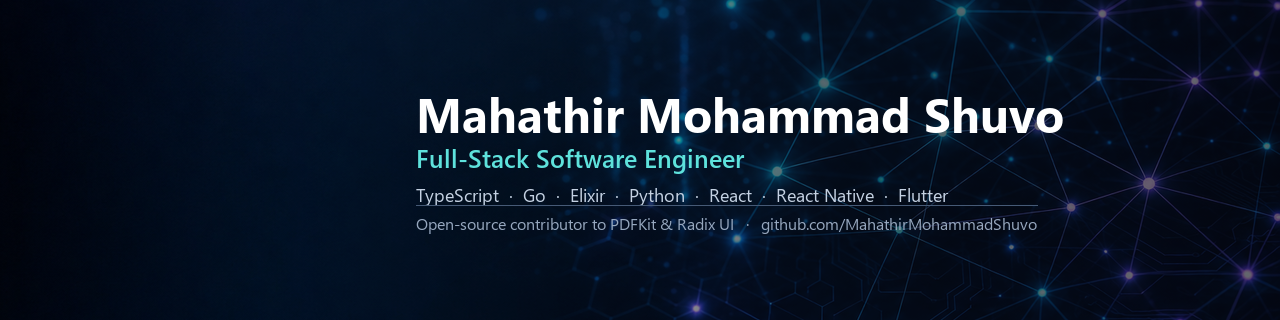
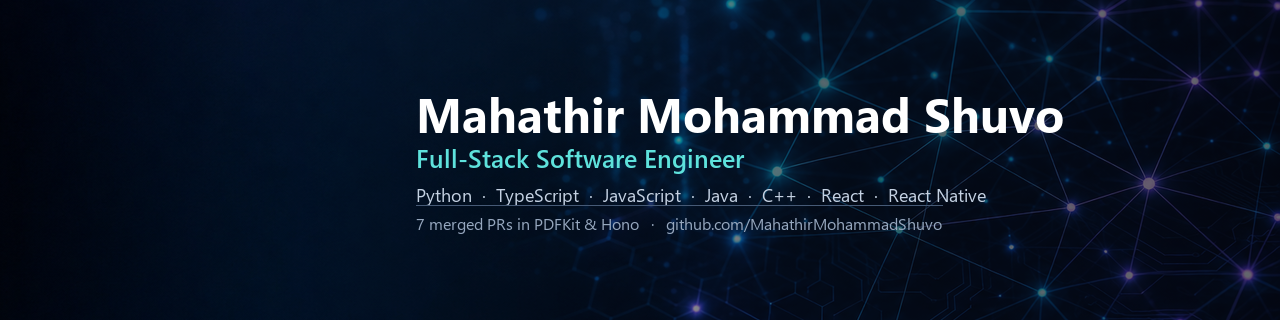
Add the hono and pdfkit merges, and correct the language list
Seven merged pull requests across two repos now. The stack, the banner and
the CV listed languages I do not work in; all three now match my resume.

Changed region(s): [[0.3125, 0.5938, 0.7812, 0.6562], [0.3125, 0.6875, 0.8125, 0.7188]]

diff --git a/README.md b/README.md
@@ -3,8 +3,8 @@
 ## Mahathir Mohammad
 
 Full-stack engineer in Bangladesh. Backend and full-stack work since 2020, across
-web, mobile and desktop — TypeScript and NestJS, Go, Elixir/Phoenix, Python, React,
-React Native and Flutter, on AWS and GCP.
+web, mobile and desktop — TypeScript and NestJS, Python and Flask, JavaScript,
+Java and C++, React, React Native and Electron, on AWS and GCP.
 
 **[Download my CV (PDF)](Mahathir_Mohammad_Shuvo_CV.pdf)**
 
@@ -13,22 +13,24 @@ React Native and Flutter, on AWS and GCP.
 ### Open source
 
 <!-- OSS:START -->
-**4 merged** contributions across 1 project.
+**7 merged** contributions across 2 projects.
 
 | Project | Stars | Contribution | Status |
 | --- | --- | --- | --- |
+| [honojs/hono](https://github.com/honojs/hono) | 31.8k | [fix(client): skip an undefined entry inside a query array](https://github.com/honojs/hono/pull/5272) | **Merged** |
+| [foliojs/pdfkit](https://github.com/foliojs/pdfkit) | 10.7k | [Throw from addNamedEmbeddedFile when no ref is given](https://github.com/foliojs/pdfkit/pull/1772) | **Merged** |
+| [foliojs/pdfkit](https://github.com/foliojs/pdfkit) | 10.7k | [Fix a hole in a sparse array being skipped when serialising](https://github.com/foliojs/pdfkit/pull/1771) | **Merged** |
 | [foliojs/pdfkit](https://github.com/foliojs/pdfkit) | 10.7k | [Fix table cell font src inheriting an unrelated font family](https://github.com/foliojs/pdfkit/pull/1770) | **Merged** |
-| [foliojs/pdfkit](https://github.com/foliojs/pdfkit) | 10.7k | [Fix undefined option values serialising as the literal token undefined](https://github.com/foliojs/pdfkit/pull/1769) | **Merged** |
-| [foliojs/pdfkit](https://github.com/foliojs/pdfkit) | 10.7k | [Fix date text field formatting emitting invalid JavaScript](https://github.com/foliojs/pdfkit/pull/1768) | **Merged** |
 | [radix-ui/primitives](https://github.com/radix-ui/primitives) | 19.2k | [fix(dismissable-layer): dismiss on one outside click after content stops propagation](https://github.com/radix-ui/primitives/pull/4122) | Open |
 
 <details>
-<summary>Show 2 more</summary>
+<summary>Show 3 more</summary>
 
 | Project | Stars | Contribution | Status |
 | --- | --- | --- | --- |
+| [foliojs/pdfkit](https://github.com/foliojs/pdfkit) | 10.7k | [Fix undefined option values serialising as the literal token undefined](https://github.com/foliojs/pdfkit/pull/1769) | **Merged** |
+| [foliojs/pdfkit](https://github.com/foliojs/pdfkit) | 10.7k | [Fix date text field formatting emitting invalid JavaScript](https://github.com/foliojs/pdfkit/pull/1768) | **Merged** |
 | [foliojs/pdfkit](https://github.com/foliojs/pdfkit) | 10.7k | [Fix indentAllLines applying the indent more than once](https://github.com/foliojs/pdfkit/pull/1767) | **Merged** |
-| [foliojs/pdfkit](https://github.com/foliojs/pdfkit) | 10.7k | [Fix undefined skipping a sparse array entry and reaching name trees as a literal token](https://github.com/foliojs/pdfkit/pull/1771) | Open |
 
 </details>
 <!-- OSS:END -->
@@ -59,13 +61,6 @@ PostgreSQL, LangGraph orchestration with a Postgres checkpointer, Redis-backed
 Socket.io, and a React front end with a Monaco editor and a node-graph view for
 watching agents work and chatting with them directly.
 
-**Daanika** — real-time multiplayer board-game platform. Flutter mobile client
-(11 games — chess, carrom, ludo, pool, rummy and others) on an Elixir/Phoenix
-backend with PostgreSQL. Matchmaking, tournaments and live spectating over
-Phoenix channels; WebRTC camera streaming between opponents mid-match; JWT held
-in Android Keystore / iOS Keychain. Native end-to-end tests with Patrol,
-including a two-player play-to-completion suite. Not publicly deployed.
-
 **Earlier** — as sole backend developer on a series of Flask products: a
 large-file transfer service handling transfers up to 40 GB, a cloud storage
 product with shared folders and per-member permissions, and a centralised log
@@ -86,13 +81,12 @@ rather than a web page.
 
 ### Stack
 
-**Languages** TypeScript · JavaScript · Python · Go · Elixir · Dart · PHP · SQL
-**Backend** NestJS · Node · Express · Fastify · Flask · Phoenix · Prisma · PostgreSQL · MySQL · MongoDB · Redis
-**Frontend** React · TanStack · Radix UI · Tailwind · Vite
-**Mobile & desktop** React Native (Expo) · Flutter · Electron
-**AI** Model Context Protocol · LangGraph · Anthropic SDK · retrieval-augmented search
-**Distributed & cryptography** Go services on LevelDB · Ed25519 · X.509 · WebCrypto
-**Infrastructure** AWS · GCP · Docker · nginx · Elasticsearch · Codemagic · Playwright
+**Languages** Python · TypeScript · JavaScript · Java · C++
+**Backend** NestJS · Node · Express · Flask · Django · Prisma · PostgreSQL · MySQL · MongoDB · Redis · WebSockets · Socket.IO
+**Frontend** React · TanStack · Radix UI · Tailwind · Vite · jQuery
+**Mobile & desktop** React Native (Expo) · Electron
+**AI** Model Context Protocol · LangGraph · Anthropic and OpenAI APIs · retrieval-augmented search · Hugging Face Transformers · TensorFlow.js
+**Infrastructure** AWS · GCP · Docker · GitHub Actions · nginx · Elasticsearch · Playwright · git (bisect, blame, worktrees)
 
 ---
 
